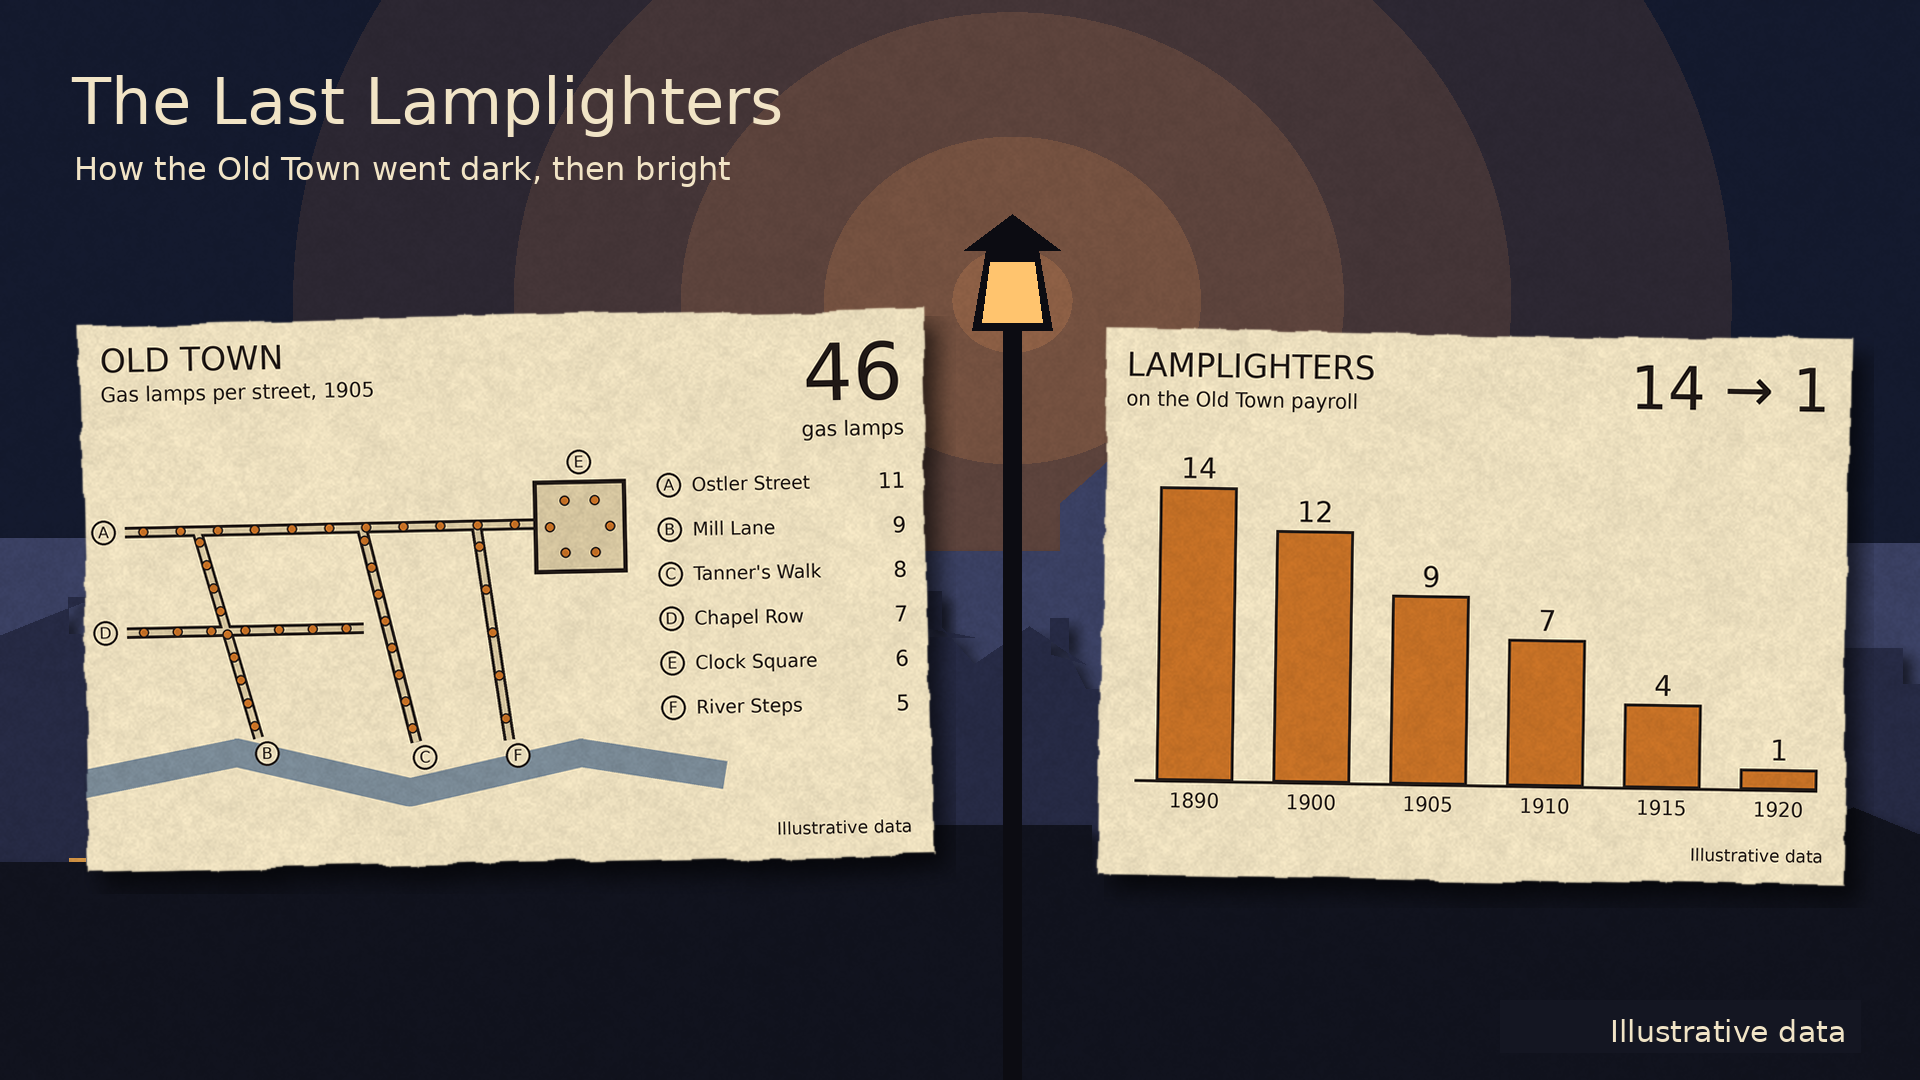
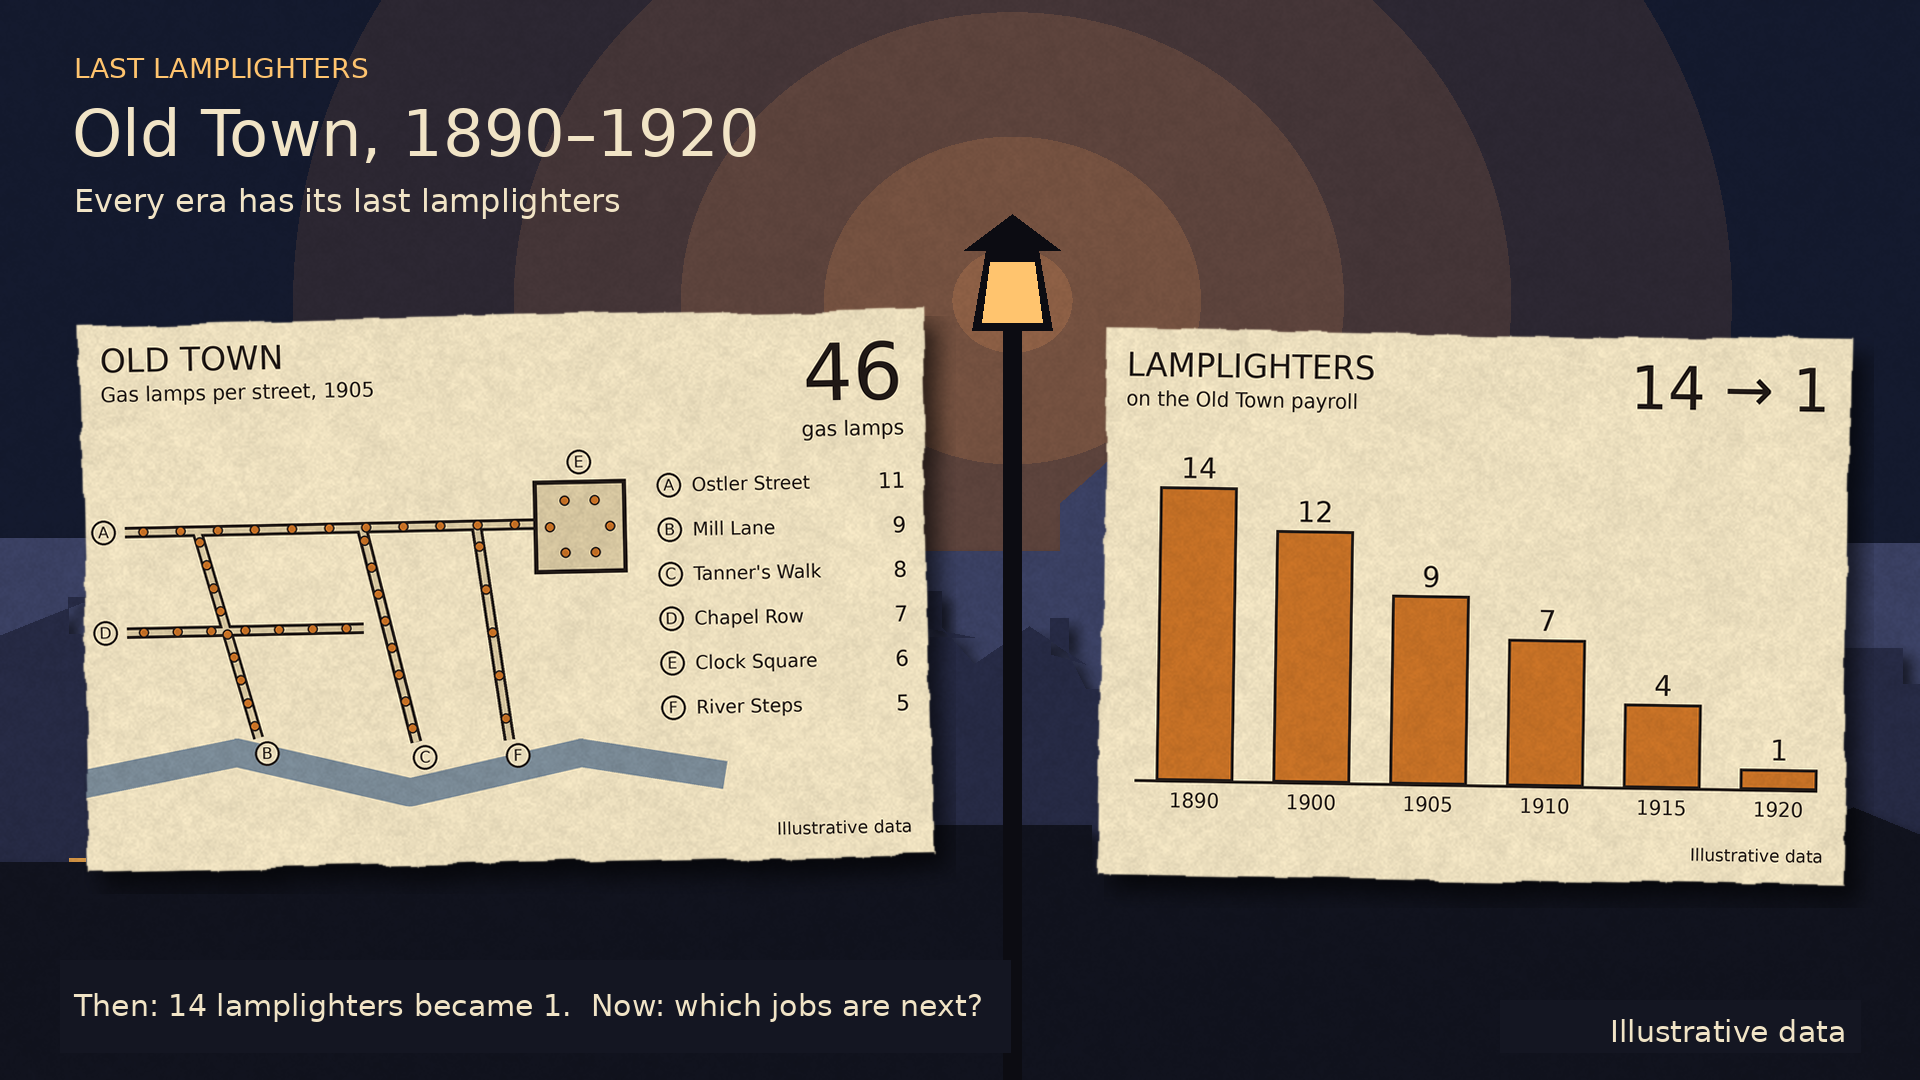
M3 thử phong cách: khung dữ liệu B3 dùng tên kênh Last Lamplighters + trục nghề xưa/nay
Claude-Session: https://claude.ai/code/session_013vfSagBSEu3FHp4au7vwuU

Changed region(s): [[0.0312, 0.0306, 0.4062, 0.2139], [0.0312, 0.9167, 0.5, 0.9472]]

diff --git a/design/m3/thu-phong-cach/data_frame.py b/design/m3/thu-phong-cach/data_frame.py
@@ -177,8 +177,12 @@ def frame_b3(out):
     img = Image.alpha_composite(img, stick(panel_map(860, 560, 11), 70, 300, 1.2))
     img = Image.alpha_composite(img, stick(panel_chart(760, 560, 23), 1090, 320, -0.9))
     d = ImageDraw.Draw(img)
-    text(d, (72, 64), 'The Last Lamplighters', 64, (241, 228, 198))
-    text(d, (74, 150), 'How the Old Town went dark, then bright', 32, (241, 228, 198))
+    # kênh "Last Lamplighters" (chủ dự án chọn 01/10/2026) — khẩu hiệu gợi ý của P
+    text(d, (74, 52), 'LAST LAMPLIGHTERS', 28, LAMP)
+    text(d, (72, 96), 'Old Town, 1890\u20131920', 64, (241, 228, 198))
+    text(d, (74, 182), 'Every era has its last lamplighters', 32, (241, 228, 198))
+    d.rectangle([60, 960, 1010, 1052], fill=(20, 22, 34))
+    text(d, (74, 1006), 'Then: 14 lamplighters became 1.  Now: which jobs are next?', 30, (241, 228, 198), 'lm')
     d.rectangle([1500, 1000, 1860, 1052], fill=(20, 22, 34))
     text(d, (1846, 1042), 'Illustrative data', 30, (241, 228, 198), 'rs')
     img.convert('RGB').save(out); print('ghi', out)
@@ -217,7 +221,7 @@ def contrast(png):
     def dark(x0, y0, x1, y1): a = im[y0:y1, x0:x1].reshape(-1, 3).astype(int); i = np.argsort(a.sum(1))[: max(1, len(a) // 200)]; return tuple(int(v) for v in np.median(a[i], axis=0))
     def light(x0, y0, x1, y1): a = im[y0:y1, x0:x1].reshape(-1, 3).astype(int); i = np.argsort(-a.sum(1))[: max(1, len(a) // 200)]; return tuple(int(v) for v in np.median(a[i], axis=0))
     rows = []
-    for name, box in [('Tiêu đề (chữ sáng / nền trời)', (60, 50, 760, 200)), ('Nhãn "Illustrative data" (khung dưới phải)', (1500, 1000, 1860, 1052)),
+    for name, box in [('Tiêu đề (chữ sáng / nền trời)', (60, 40, 760, 220)), ('Dòng Then/Now (chữ sáng / nền mực)', (60, 960, 1010, 1052)), ('Nhãn "Illustrative data" (khung dưới phải)', (1500, 1000, 1860, 1052)),
                       ('Chữ bản đồ (mực / giấy)', (100, 330, 900, 820)), ('Chữ biểu đồ (mực / giấy)', (1110, 340, 1830, 860))]:
         x0, y0, x1, y1 = box; bgm = med(*box)
         fg = light(*box) if L(bgm) < 0.18 else dark(*box)
